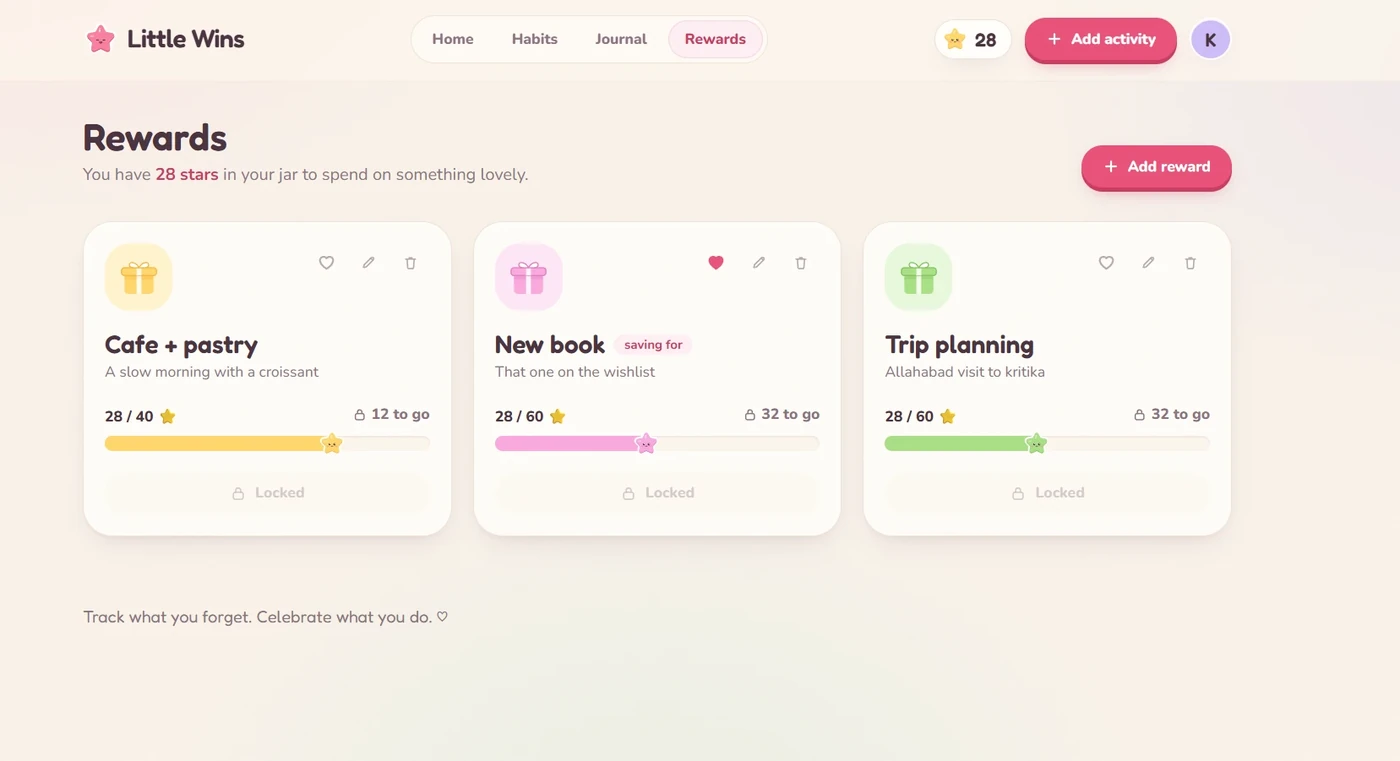
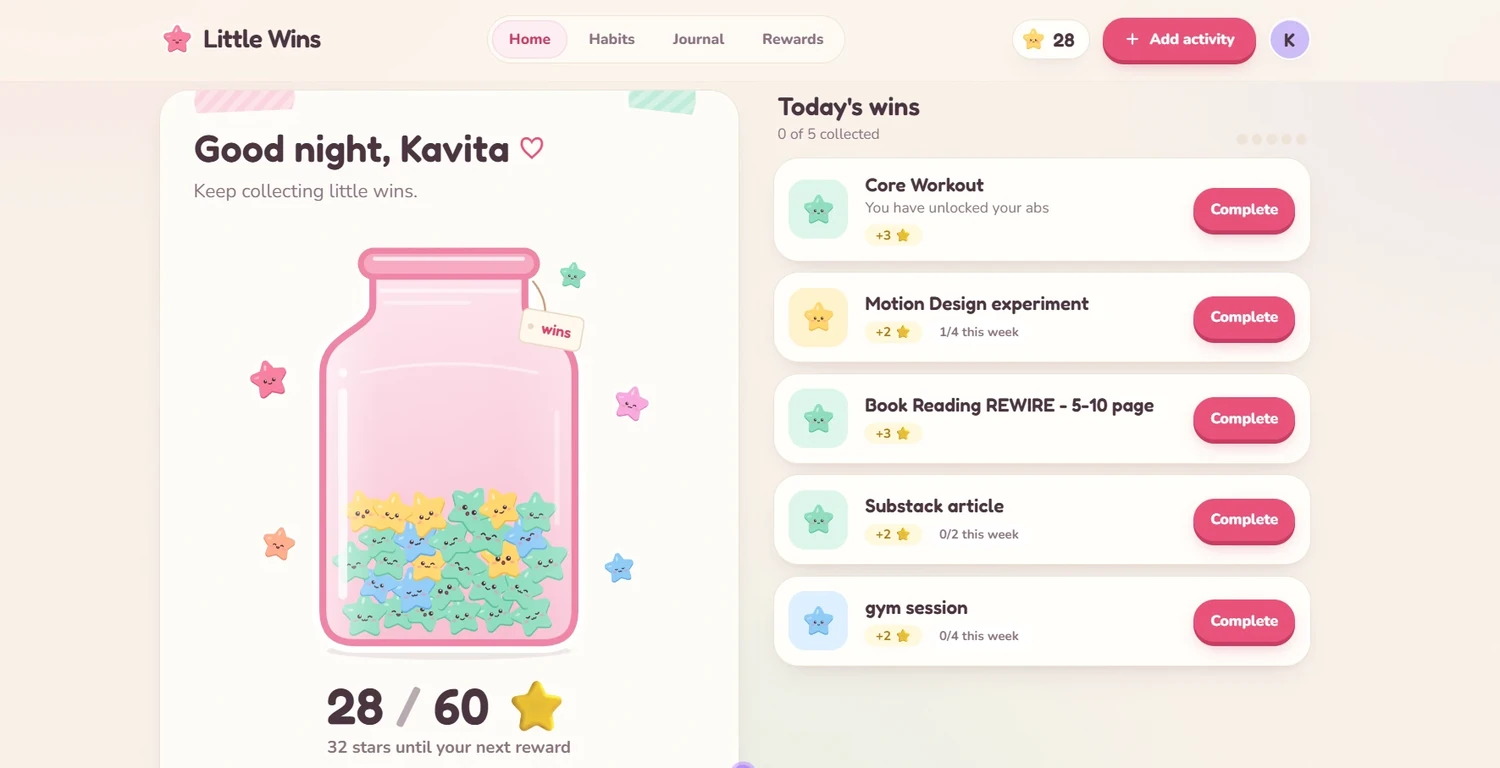
Lay the project media out as a bento, equal height on both cards
The two cards ran to different lengths because one site screenshots at
16:10 and the other at nearly 2:1, so the media blocks disagreed and
everything below them fell out of line. The block is now pinned to 4:3 with
every tile object-cover, so the projects occupy the same height whatever
their source images measure: 368x276 each at desktop, 327x245 at 375px,
cards equal to the pixel.

Three tiles in one grid rather than an image with two images under it: the
hero across the top, the two supporting shots beneath, one 24px radius on
all three and a gap that matches, so they read as one object.

Two CSS details this needed, both the same trap. `fr` rows carry
min-height:auto, so a tall image expands its row past the share it was
given; and the figure is a flex item, whose own min-height:auto let its
content outvote the aspect ratio entirely. Without min-h-0 in both places
the ratio was declared and never applied: the figures measured 365 and 591
against an intended 276.

Little Wins leads with the home screen Kavita sent, the jar beside the
day's wins, with the two star-jar frames as the supporting pair.

diff --git a/src/components/playground/Explorations.tsx b/src/components/playground/Explorations.tsx
@@ -89,30 +89,39 @@ export default function Explorations() {
                     )}
                   </div>
 
-                  <figure className="m-0 mt-4">
+                  {/* A bento of three: the hero across the top, the two
+                      supporting shots beneath it.
+
+                      The whole block is pinned to one aspect ratio and every
+                      tile is `object-cover`, so the two projects occupy
+                      exactly the same height whatever their screenshots
+                      happen to measure. Before this the cards ran to
+                      different lengths purely because one site is 16:10 and
+                      the other is nearly 2:1.
+
+                      One radius on every tile and a gap that matches it, so
+                      the three read as pieces of one object rather than
+                      three images that happen to be stacked. */}
+                  <figure className="mt-4 mb-0 grid aspect-[4/3] min-h-0 grid-cols-2 grid-rows-[minmax(0,1.85fr)_minmax(0,1fr)] gap-2.5">
                     <img
                       src={it.hero}
                       alt={it.heroAlt}
                       loading="lazy"
-                      className="rounded-cards border-ink/[0.08] w-full border bg-white"
+                      className="rounded-images border-ink/[0.08] col-span-2 h-full min-h-0 w-full border bg-white object-cover object-top"
                     />
-                    {it.thumbs.length > 0 ? (
-                      <div
-                        className={`mt-3 grid gap-3 ${
-                          it.thumbs.length === 1 ? "grid-cols-1" : "grid-cols-2"
+                    {it.thumbs.map((t) => (
+                      <img
+                        key={t.src}
+                        src={t.src}
+                        alt={t.alt}
+                        loading="lazy"
+                        // A single supporting shot spans the row rather than
+                        // leaving a hole beside itself.
+                        className={`rounded-images border-ink/[0.08] h-full min-h-0 w-full border bg-white object-cover object-top ${
+                          it.thumbs.length === 1 ? "col-span-2" : ""
                         }`}
-                      >
-                        {it.thumbs.map((t) => (
-                          <img
-                            key={t.src}
-                            src={t.src}
-                            alt={t.alt}
-                            loading="lazy"
-                            className="rounded-cards-sm border-ink/[0.08] h-28 w-full border bg-white object-cover object-top"
-                          />
-                        ))}
-                      </div>
-                    ) : null}
+                      />
+                    ))}
                   </figure>
 
                   <h2 className={`${TYPE.h3} mt-5`}>{it.title}</h2>

diff --git a/src/lib/content.ts b/src/lib/content.ts
@@ -613,7 +613,7 @@ export const explorations = {
       meta: "Solo · Product, accounts and data · 2026",
       hero: "/work/fun/wins-hero.webp",
       heroAlt:
-        "The rewards screen: 28 stars in the jar, against rewards for a cafe pastry, a new book and a trip",
+        "The home screen: the star jar at 28 of 60, beside the day's wins waiting to be collected",
       thumbs: [
         { src: "/work/fun/wins-jar-full.webp", alt: "The jar part-filled with stars, 31 of 60 towards the next reward" },
         { src: "/work/fun/wins-jar-mid.webp", alt: "The same jar after spending stars, back down to 28" },
